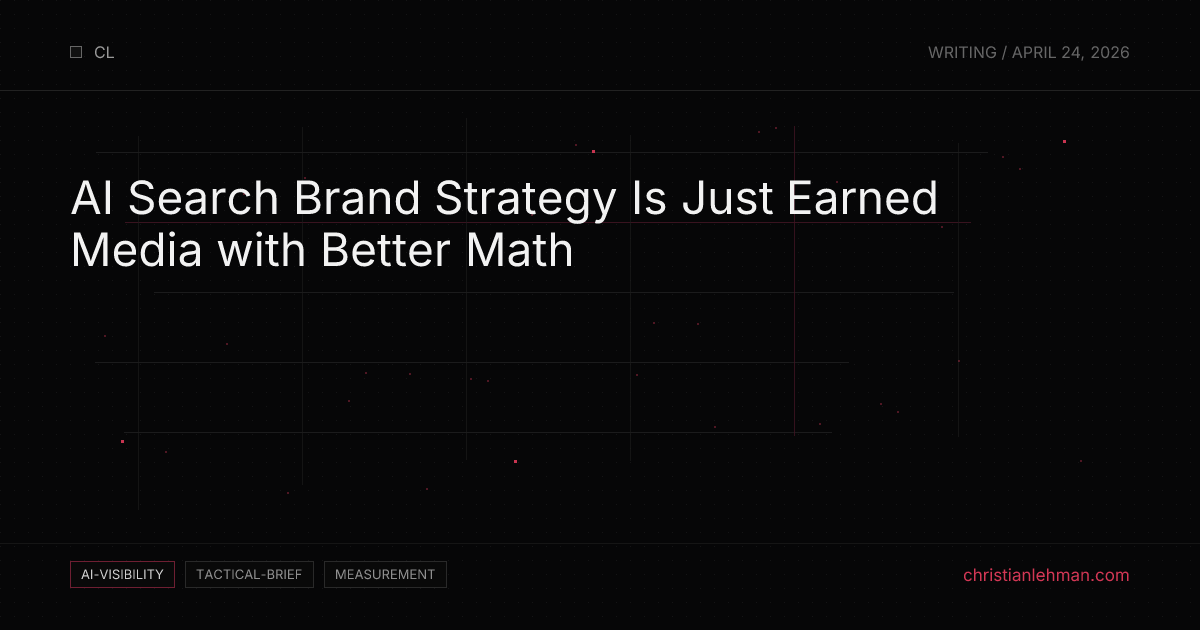
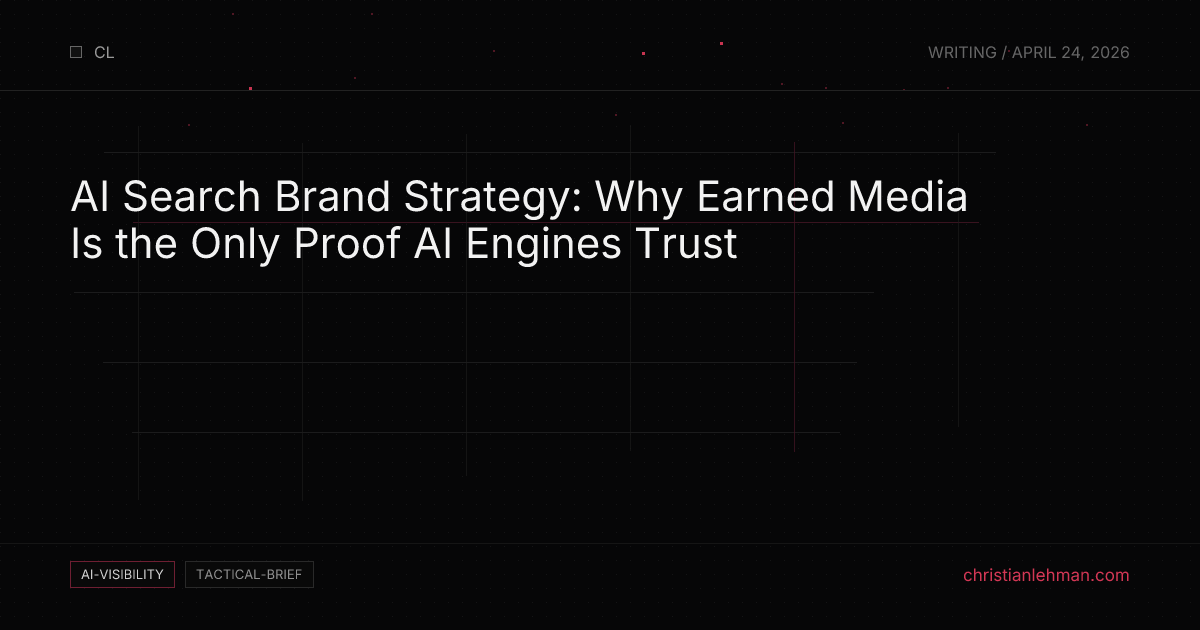
Harden SEO metadata pipeline

Changed region(s): [[0.0617, 0.2714, 0.8325, 0.4222], [0.2775, 0.9048, 0.37, 0.9349]]

diff --git a/src/lib/posts.ts b/src/lib/posts.ts
@@ -18,11 +18,31 @@ export interface Post extends PostMeta {
   content: string;
 }
 
+function toText(value: unknown, fallback = ""): string {
+  if (value == null) return fallback;
+  if (value instanceof Date) return value.toISOString().slice(0, 10);
+  if (Array.isArray(value)) return value.map((item) => toText(item)).filter(Boolean).join(", ");
+  if (typeof value === "object") return fallback;
+  const text = String(value).replace(/\s+/g, " ").trim();
+  return text || fallback;
+}
+
+function toTags(value: unknown): string[] {
+  if (!Array.isArray(value)) return [];
+  return value.map((tag) => toText(tag)).filter(Boolean);
+}
+
 function toIsoDate(value: unknown): string | undefined {
-  if (typeof value !== "string" || !value.trim()) return undefined;
-  const parsed = new Date(value);
+  const text = toText(value);
+  if (!text) return undefined;
+  const parsed = new Date(text);
   if (Number.isNaN(parsed.getTime())) return undefined;
   return parsed.toISOString();
+}
+
+function toDateOnly(value: unknown): string {
+  const iso = toIsoDate(value);
+  return iso ? iso.slice(0, 10) : "";
 }
 
 export function getAllPosts(): PostMeta[] {
@@ -44,12 +64,12 @@ export function getAllPosts(): PostMeta[] {
       undefined;
     return {
       slug,
-      title: data.title ?? slug,
-      date: data.date ?? "",
+      title: toText(data.title, slug),
+      date: toDateOnly(data.date),
       lastModified,
-      description: data.description ?? "",
-      tags: data.tags ?? [],
-      section: data.section ?? "founderos",
+      description: toText(data.description),
+      tags: toTags(data.tags),
+      section: toText(data.section, "founderos"),
     };
   });
 }
@@ -71,12 +91,12 @@ export function getPost(slug: string): Post | null {
     undefined;
   return {
     slug,
-    title: data.title ?? slug,
-    date: data.date ?? "",
+    title: toText(data.title, slug),
+    date: toDateOnly(data.date),
     lastModified,
-    description: data.description ?? "",
-    tags: data.tags ?? [],
-    section: data.section ?? "founderos",
+    description: toText(data.description),
+    tags: toTags(data.tags),
+    section: toText(data.section, "founderos"),
     content,
   };
 }

diff --git a/src/app/sitemap.xml/route.ts b/src/app/sitemap.xml/route.ts
@@ -1,19 +1,44 @@
 export const dynamic = "force-static";
 
-const SITEMAPS = [
-  "https://christianlehman.com/pages/sitemap.xml",
-  "https://christianlehman.com/blog/sitemap.xml",
-];
+import { getAllPosts } from "@/lib/posts";
+import { SITE_URL } from "@/lib/site";
+
+function latestPostDate(posts: ReturnType<typeof getAllPosts>): Date {
+  const latest = posts.reduce((max, post) => {
+    const timestamp = new Date(post.lastModified || post.date || 0).getTime();
+    return Number.isFinite(timestamp) ? Math.max(max, timestamp) : max;
+  }, 0);
+  return latest > 0 ? new Date(latest) : new Date();
+}
+
+function urlNode(url: string, lastModified: Date, changeFrequency: string, priority: string) {
+  return [
+    "  <url>",
+    `    <loc>${url}</loc>`,
+    `    <lastmod>${lastModified.toISOString()}</lastmod>`,
+    `    <changefreq>${changeFrequency}</changefreq>`,
+    `    <priority>${priority}</priority>`,
+    "  </url>",
+  ].join("\n");
+}
 
 export function GET() {
-  const now = new Date().toISOString();
+  const posts = getAllPosts();
+  const latest = latestPostDate(posts);
   const xml = [
     '<?xml version="1.0" encoding="UTF-8"?>',
-    '<sitemapindex xmlns="http://www.sitemaps.org/schemas/sitemap/0.9">',
-    ...SITEMAPS.map(
-      (loc) => `  <sitemap><loc>${loc}</loc><lastmod>${now}</lastmod></sitemap>`,
+    '<urlset xmlns="http://www.sitemaps.org/schemas/sitemap/0.9">',
+    urlNode(SITE_URL, latest, "weekly", "1.0"),
+    urlNode(`${SITE_URL}/blog`, latest, "daily", "0.9"),
+    ...posts.map((post) =>
+      urlNode(
+        `${SITE_URL}/blog/${post.slug}`,
+        new Date(post.lastModified || post.date || Date.now()),
+        "monthly",
+        "0.75",
+      ),
     ),
-    "</sitemapindex>",
+    "</urlset>",
   ].join("\n");
 
   return new Response(xml, {

diff --git a/src/lib/seo-policy.mjs.d.ts b/src/lib/seo-policy.mjs.d.ts
@@ -1,0 +1,24 @@
+export const SEO_LIMITS: {
+  titleMax: number;
+  descriptionMin: number;
+  descriptionMax: number;
+};
+
+export const SITE_SEO_TITLE: string;
+export const SITE_SEO_DESCRIPTION: string;
+export const BLOG_SEO_TITLE: string;
+export const BLOG_SEO_DESCRIPTION: string;
+
+export function normalizeSeoText(value: unknown): string;
+export function trimAtWordBoundary(value: unknown, maxLength?: number): string;
+export function buildSeoTitle(value: unknown, fallback?: string): string;
+export function buildSeoDescription(value: unknown, fallback?: string): string;
+export function seoMetadataForRoute(input: {
+  title: unknown;
+  description: unknown;
+  canonical: unknown;
+}): {
+  title: string;
+  description: string;
+  canonical: string;
+};

diff --git a/src/app/blog/[slug]/page.tsx b/src/app/blog/[slug]/page.tsx
@@ -7,6 +7,7 @@ import remarkHtml from "remark-html";
 import type { Metadata } from "next";
 import Link from "next/link";
 import { PROFILE_IMAGE_URL } from "@/lib/site";
+import { buildSeoDescription, buildSeoTitle } from "@/lib/seo";
 import { formatShareDate, getPostShare } from "@/lib/postShare";
 import { generateBlogJsonLd, CL_BLOG_CONFIG } from "@editorialkit/schema";
 
@@ -28,15 +29,18 @@ export async function generateMetadata({ params }: Props): Promise<Metadata> {
   const post = getPost(slug);
   if (!post) return {};
   const share = getPostShare(post);
+  const seoTitle = buildSeoTitle(post.title);
+  const seoDescription = buildSeoDescription(post.description);
+  const canonical = "https://christianlehman.com/blog/" + slug;
   return {
-    title: post.title,
-    description: post.description,
-    alternates: { canonical: "https://christianlehman.com/blog/" + slug },
+    title: { absolute: seoTitle },
+    description: seoDescription,
+    alternates: { canonical },
     openGraph: {
-      title: post.title + " — Christian Lehman",
-      description: post.description,
+      title: seoTitle,
+      description: seoDescription,
       type: "article",
-      url: "https://christianlehman.com/blog/" + slug,
+      url: canonical,
       publishedTime: post.date,
       modifiedTime: post.lastModified || post.date,
       authors: ["Christian Lehman"],
@@ -45,8 +49,8 @@ export async function generateMetadata({ params }: Props): Promise<Metadata> {
     twitter: {
       card: "summary_large_image",
       creator: "@christianlehman",
-      title: post.title + " — Christian Lehman",
-      description: post.description,
+      title: seoTitle,
+      description: seoDescription,
       images: [share.imageUrl],
     },
   };

diff --git a/src/app/layout.tsx b/src/app/layout.tsx
@@ -6,6 +6,7 @@ import Nav from "@/components/Nav";
 import Footer from "@/components/Footer";
 import MachineViewToggle from "@/components/MachineViewToggle";
 import { PROFILE_IMAGE_URL, SITE_URL } from "@/lib/site";
+import { SITE_SEO_DESCRIPTION, SITE_SEO_TITLE } from "@/lib/seo";
 
 const spaceGrotesk = Space_Grotesk({
   subsets: ["latin"],
@@ -33,11 +34,10 @@ const MACHINE_RELATIONS_TERM_SET_ID = IDS.MR_TERM_SET;
 export const metadata: Metadata = {
   metadataBase: new URL(SITE_URL),
   title: {
-    default: "Christian Lehman — Co-Founder, AuthorityTech · Machine Relations",
-    template: "%s — Christian Lehman",
+    default: SITE_SEO_TITLE,
+    template: "%s",
   },
-  description:
-    "Christian Lehman is the cofounder and chief growth officer of AuthorityTech. He is the brand-facing architect and operator of Machine Relations execution across growth and client delivery.",
+  description: SITE_SEO_DESCRIPTION,
   keywords: [
     "Machine Relations",
     "AuthorityTech",
@@ -62,18 +62,16 @@ export const metadata: Metadata = {
     locale: "en_US",
     url: SITE_URL,
     siteName: "Christian Lehman",
-    title: "Christian Lehman — Co-Founder, AuthorityTech · Machine Relations",
-    description:
-      "Co-Founder of AuthorityTech — the world\'s first Machine Relations agency. Writes AI shortlist intelligence from live B2B buying queries: which brands surface, which sources get cited, and where visibility breaks.",
+    title: SITE_SEO_TITLE,
+    description: SITE_SEO_DESCRIPTION,
     images: [{ url: OG_IMAGE, width: 1672, height: 941, alt: "Christian Lehman — Co-Founder of AuthorityTech" }],
   },
   twitter: {
     card: "summary_large_image",
     site: "@ChristianLehman",
     creator: "@ChristianLehman",
-    title: "Christian Lehman — Co-Founder, AuthorityTech · Machine Relations",
-    description:
-      "Writes AI shortlist intelligence from live B2B buying queries: surfaced brands, cited sources, and visibility gaps.",
+    title: SITE_SEO_TITLE,
+    description: SITE_SEO_DESCRIPTION,
     images: [OG_IMAGE],
   },
   icons: {

diff --git a/src/app/blog/page.tsx b/src/app/blog/page.tsx
@@ -1,5 +1,5 @@
 import { getAllPosts } from "@/lib/posts";
-import { CANONICAL_ESSAY_SLUG } from "@/lib/seo";
+import { BLOG_SEO_DESCRIPTION, BLOG_SEO_TITLE, CANONICAL_ESSAY_SLUG } from "@/lib/seo";
 import { formatShareDate } from "@/lib/postShare";
 import { BLOG_COPY } from "@/lib/page-copy";
 import Link from "next/link";
@@ -7,13 +7,18 @@ import type { Metadata } from "next";
 const BASE = "https://christianlehman.com";
 
 export const metadata: Metadata = {
-  title: BLOG_COPY.title,
-  description: BLOG_COPY.metadataDescription,
+  title: { absolute: BLOG_SEO_TITLE },
+  description: BLOG_SEO_DESCRIPTION,
   alternates: { canonical: "https://christianlehman.com/blog" },
   openGraph: {
-    title: "Writing — Christian Lehman",
-    description: BLOG_COPY.visibleDescription,
+    title: BLOG_SEO_TITLE,
+    description: BLOG_SEO_DESCRIPTION,
     url: "https://christianlehman.com/blog",
+  },
+  twitter: {
+    card: "summary_large_image",
+    title: BLOG_SEO_TITLE,
+    description: BLOG_SEO_DESCRIPTION,
   },
 };
 

diff --git a/src/lib/seo.ts b/src/lib/seo.ts
@@ -1,2 +1,14 @@
-// No canonical essay yet for Christian
+export {
+  BLOG_SEO_DESCRIPTION,
+  BLOG_SEO_TITLE,
+  SEO_LIMITS,
+  SITE_SEO_DESCRIPTION,
+  SITE_SEO_TITLE,
+  buildSeoDescription,
+  buildSeoTitle,
+  normalizeSeoText,
+  seoMetadataForRoute,
+  trimAtWordBoundary,
+} from "./seo-policy.mjs";
+
 export const CANONICAL_ESSAY_SLUG: string | null = null;

diff --git a/src/app/robots.ts b/src/app/robots.ts
@@ -10,10 +10,6 @@ export default function robots(): MetadataRoute.Robots {
       { userAgent: "*", allow: "/", disallow: "/blog-md/" },
       { userAgent: AI_AND_SEARCH_BOTS, allow: "/" },
     ],
-    sitemap: [
-      "https://christianlehman.com/sitemap.xml",
-      "https://christianlehman.com/pages/sitemap.xml",
-      "https://christianlehman.com/blog/sitemap.xml",
-    ],
+    sitemap: "https://christianlehman.com/sitemap.xml",
   };
 }